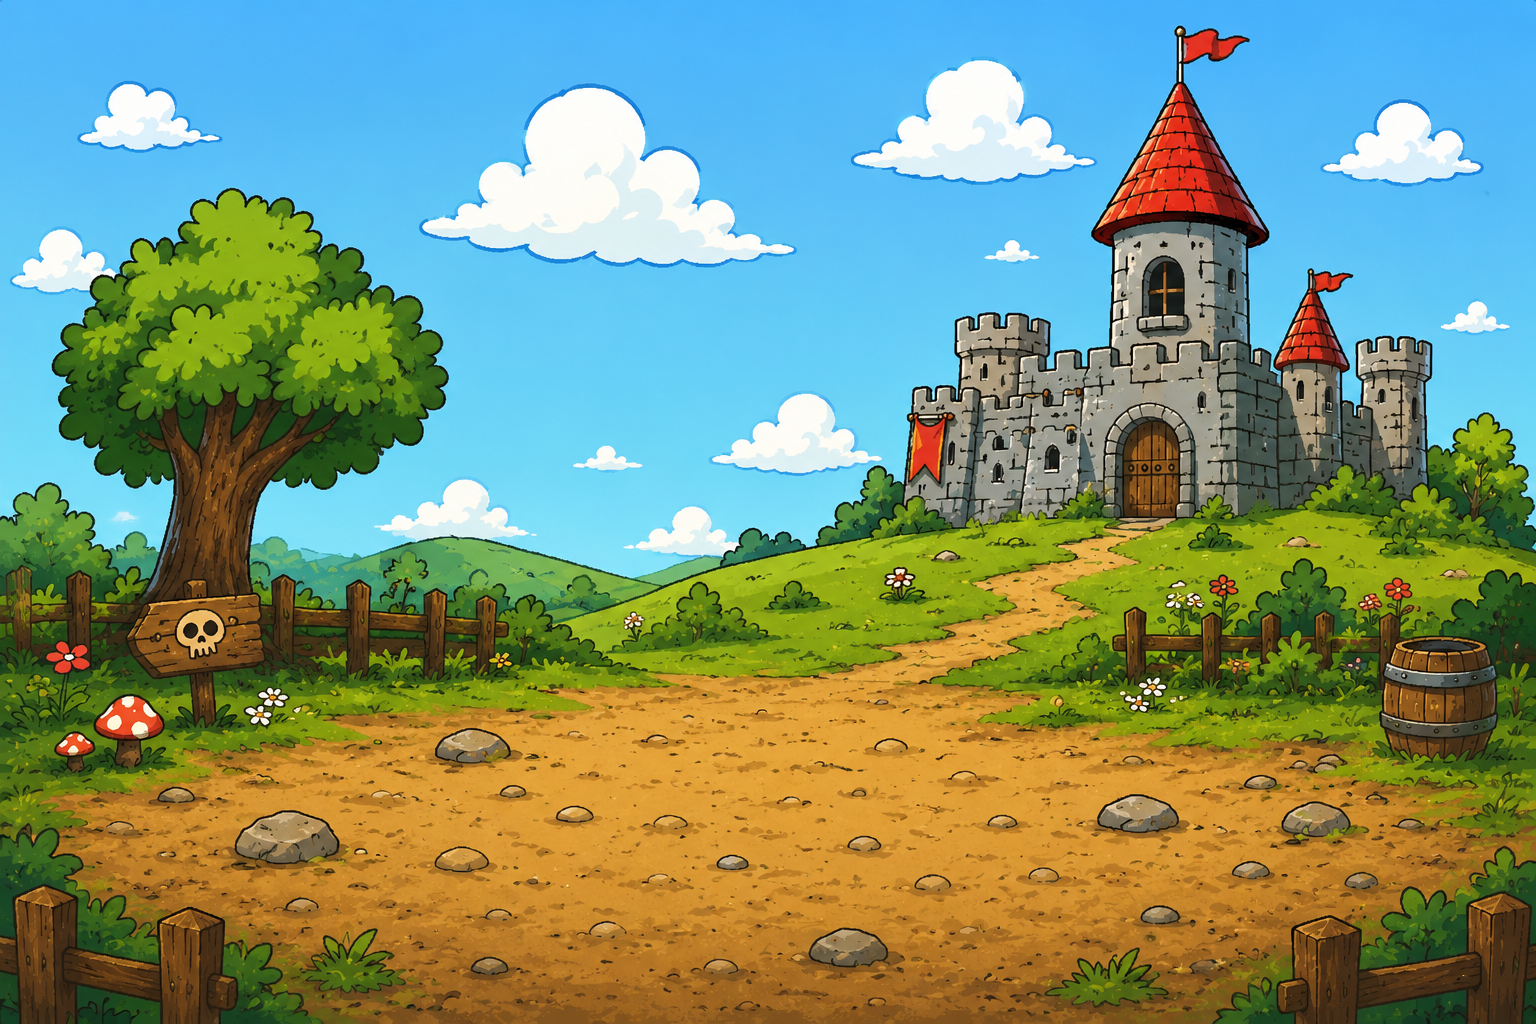
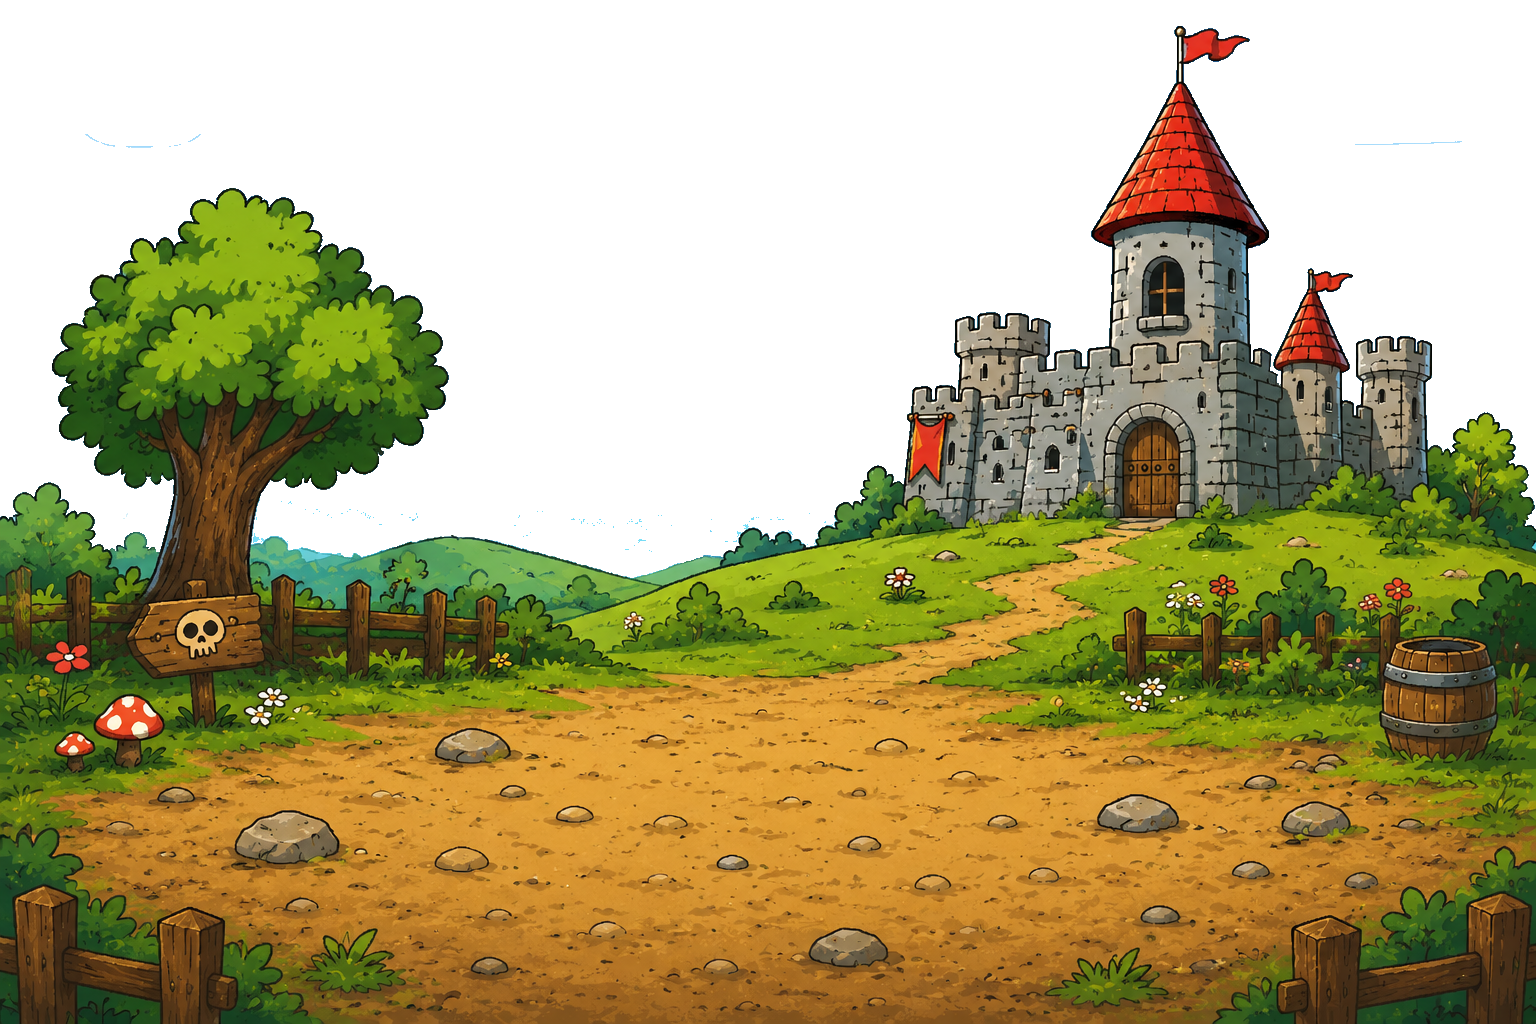
fix: changed living background and adjusted feedback (#93)
* feat: add background ambience with animated clouds and falling leaves

* Fix Clouds

* feat: add cloud and leaf images for background ambience

* adjusted feedback

* feat: add localization support by importing labels in multiple scene files

---------

diff --git a/src/game/BackgroundAmbience.ts b/src/game/BackgroundAmbience.ts
@@ -6,12 +6,17 @@ export function setupBackgroundAmbience(scene: Scene) {
     const clouds: AnimatedCloud[] = [];
     const leaves: FallingLeaf[] = [];
 
-    const MAX_CLOUDS = 6;
+    const MAX_CLOUDS = 5;
     // Minimum horizontal distance (px) between any two cloud centers
-    const MIN_SEPARATION = 220;
-    const SPEED_MIN = 25;
-    const SPEED_MAX = 45;
-    const MAX_LEAVES = 10;
+    const MIN_SEPARATION = 500;
+    const speed = 20;
+    const CLOUD_Y_MIN = 0;
+    const CLOUD_Y_MAX = scene.scale.height * 0.4;
+    const MAX_LEAVES = 5;
+    // Tree position – adjust these to match the tree in the background image
+    const TREE_X = scene.scale.width * 0.15;
+    const TREE_Y = scene.scale.height * 0.4;
+    const TREE_SPREAD = 100; // horizontal spread of leaf spawn around the tree center
 
     // Pre-spawn all clouds evenly spread across the screen width
     function initClouds() {
@@ -24,8 +29,7 @@ export function setupBackgroundAmbience(scene: Scene) {
             const cloud = new AnimatedCloud(scene);
             clouds.push(cloud);
             const x = spacing * 0.5 + spacing * i;
-            const y = 50 + Math.random() * 80;
-            const speed = SPEED_MIN + Math.random() * (SPEED_MAX - SPEED_MIN);
+            const y = CLOUD_Y_MIN + Math.random() * (CLOUD_Y_MAX - CLOUD_Y_MIN);
             cloud.spawn(x, y, 'cloud', speed);
         }
     }
@@ -49,8 +53,7 @@ export function setupBackgroundAmbience(scene: Scene) {
             }
         }
 
-        const y = 50 + Math.random() * 80;
-        const speed = SPEED_MIN + Math.random() * (SPEED_MAX - SPEED_MIN);
+        const y = CLOUD_Y_MIN + Math.random() * (CLOUD_Y_MAX - CLOUD_Y_MIN);
         cloud.spawn(safeX, y, 'cloud', speed);
     }
 
@@ -66,9 +69,9 @@ export function setupBackgroundAmbience(scene: Scene) {
 
         if (!leaf) return;
 
-        const speed = 60 + Math.random() * 60;
-        const startX = Math.random() * scene.scale.width;
-        leaf.spawn(startX, -50, 'leaf', speed);
+        const leafSpeed = 60 + Math.random() * 60;
+        const startX = TREE_X + (Math.random() * 2 - 1) * TREE_SPREAD;
+        leaf.spawn(startX, TREE_Y, 'leaf', leafSpeed);
     }
 
     let leafTimer = 0;

diff --git a/src/game/classes/FallingLeaf.ts b/src/game/classes/FallingLeaf.ts
@@ -18,7 +18,7 @@ export class FallingLeaf {
         if (!this.sprite) {
             this.sprite = this.scene.add.image(x, y, textureKey);
             this.sprite.setOrigin(0.5);
-            this.sprite.setDepth(-49);
+            this.sprite.setDepth(-1);
             this.sprite.setScale(0.06);
         } else {
             this.sprite.setPosition(x, y);
@@ -51,15 +51,16 @@ export class FallingLeaf {
         this.tiltOffset += dt * 2.2;
         this.sprite.angle = Math.sin(this.tiltOffset) * 25;
 
-        // Fade out over the bottom 30% of the screen
-        const fadeStart = height * 0.7;
+        // Fade out between 50% and 75% of the screen height
+        const fadeStart = height * 0.5;
+        const fadeEnd = height * 0.7;
         if (this.sprite.y > fadeStart) {
-            const alpha = 1 - (this.sprite.y - fadeStart) / (height - fadeStart);
+            const alpha = 1 - (this.sprite.y - fadeStart) / (fadeEnd - fadeStart);
             this.sprite.setAlpha(Math.max(0, alpha));
         }
 
         // Deactivate once fully off screen
-        if (this.sprite.y > height + 30) {
+        if (this.sprite.y > height) {
             this.isActive = false;
             this.sprite.setVisible(false);
             this.sprite.setAlpha(1);

diff --git a/src/game/scenes/Reward.ts b/src/game/scenes/Reward.ts
@@ -5,6 +5,7 @@ import { Dice } from '../classes/Dice';
 import { DiceCollection } from '../classes/DiceCollection';
 import { LevelEngine } from '../classes/LevelEngine';
 import { t } from '../labels';
+import { setupBackgroundAmbience } from '../BackgroundAmbience';
 
 export class Reward extends Scene {
     camera: Phaser.Cameras.Scene2D.Camera;
@@ -43,7 +44,10 @@ export class Reward extends Scene {
     create() {
         this.camera = this.cameras.main;
 
+        this.add.image(768, 512, 'sky_background').setDepth(-4);
         this.background = this.add.image(768, 512, 'main_background');
+        this.background.setDepth(-2);
+        setupBackgroundAmbience(this);
 
         // Bestimme den Modus
         this.isSwapMode = this.levelEngine.isEndlessMode;

diff --git a/src/game/scenes/Winner.ts b/src/game/scenes/Winner.ts
@@ -1,6 +1,7 @@
 import { EventBus } from '../EventBus';
 import { Scene } from 'phaser';
 import { t } from '../labels';
+import { setupBackgroundAmbience } from '../BackgroundAmbience';
 
 export class Winner extends Scene {
     camera: Phaser.Cameras.Scene2D.Camera;
@@ -15,7 +16,10 @@ export class Winner extends Scene {
     create() {
         this.camera = this.cameras.main;
 
+        this.add.image(768, 512, 'sky_background').setDepth(-4);
         this.background = this.add.image(768, 512, 'main_background');
+        this.background.setDepth(-2);
+        setupBackgroundAmbience(this);
 
         this.titleText = this.add.text(768, 452, t('winner.title'), {
             fontFamily: 'funblob',

diff --git a/src/game/scenes/GameOver.ts b/src/game/scenes/GameOver.ts
@@ -1,6 +1,7 @@
 import { EventBus } from '../EventBus';
 import { Scene } from 'phaser';
 import { t } from '../labels';
+import { setupBackgroundAmbience } from '../BackgroundAmbience';
 
 export class GameOver extends Scene
 {
@@ -17,7 +18,10 @@ export class GameOver extends Scene
     {
         this.camera = this.cameras.main
 
+        this.add.image(768, 512, 'sky_background').setDepth(-4);
         this.background = this.add.image(768, 512, 'main_background');
+        this.background.setDepth(-2);
+        setupBackgroundAmbience(this);
 
         this.gameOverText = this.add.text(768, 512, t('gameOver.title'), {
             fontFamily: 'funblob', fontSize: 64, color: '#ff9000',

diff --git a/src/game/scenes/Game.ts b/src/game/scenes/Game.ts
@@ -44,14 +44,10 @@ export class Game extends Scene {
     create() {
         this.isDiceRolling = false;
         this.camera = this.cameras.main;
+        this.add.image(768, 512, 'sky_background').setDepth(-4);
         this.background = this.add.image(768, 512, 'main_background');
-        this.background.setDepth(-100);
+        this.background.setDepth(-2);
         setupBackgroundAmbience(this);
-
-        // Set endless mode flag for levels 6+
-        // if (this.levelEngine.currentLevel >= 5) {
-        //     this.levelEngine.isEndlessMode = true;
-        // }
 
         this.levelEngine.nextLevel();                
         this.diceHandler.renderPlayerDice();

diff --git a/src/game/scenes/Preloader.ts b/src/game/scenes/Preloader.ts
@@ -30,6 +30,7 @@ export class Preloader extends Scene
         //  Load Images
         this.load.image('logo', './images/BeatTheDiceLogo.png');
         this.load.image('mm_background', './images/mainmenu_background.png')
+        this.load.image('sky_background', './images/ingame_sky.png');
         this.load.image('main_background', './images/ingame_background.png');
 
         // Background ambience images

diff --git a/src/game/classes/AnimatedCloud.ts b/src/game/classes/AnimatedCloud.ts
@@ -17,7 +17,7 @@ export class AnimatedCloud {
         if (!this.sprite) {
             this.sprite = this.scene.add.image(x, y, textureKey);
             this.sprite.setOrigin(0.5);
-            this.sprite.setDepth(-50);
+            this.sprite.setDepth(-3);
             this.sprite.setScale(0.35);
         } else {
             this.sprite.setPosition(x, y);
